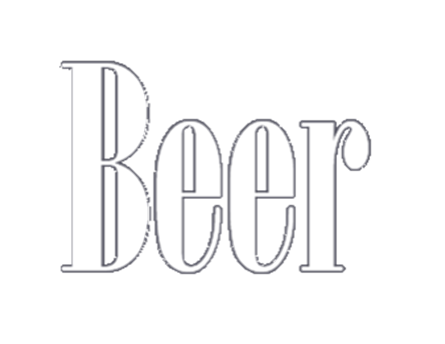
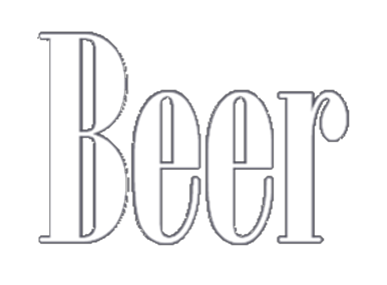
changes

Changed region(s): [[0.093, 0.0842, 0.9302, 0.8702]]

diff --git a/wines.html b/wines.html
@@ -13,8 +13,9 @@
     <meta name="viewport" content="width=device-width, initial-scale=1.0">
     <title>Wines</title>
 </head>
+
 <ion-app>
-    <ion-header position="static" style="background-color: #62626D; height:80px">
+    <ion-header position="static" style="background-color: #62626D; height:70px">
         <ion-row>
             <ion-col size="3.5">
                 <ion-tab-button id="back-home">
@@ -22,10 +23,10 @@
                 </ion-tab-button>
             </ion-col>
             <ion-col size="5.5">
-                <ion-img id="wine-title" src="images/wine text.png" style="width:100px;position:relative;left:20px"></ion-img>
+                <ion-img id="wine-title" src="images/wine text.png" style="width:100px;position:relative;left:30px"></ion-img>
             </ion-col>
             <ion-col>
-                <ion-tab-button id="off-bttn">
+                <ion-tab-button id="off-bttn" >
                     <ion-icon name="power-outline" size="large" color="success"></ion-icon>
                 </ion-tab-button>
             </ion-col>
@@ -72,3 +73,4 @@
     
     </ion-content>
 </ion-app>
+

diff --git a/beers.html b/beers.html
@@ -14,7 +14,7 @@
     <title>Beers</title>
 </head>
 <ion-app>
-    <ion-header position="static" style="background-color: #62626D; height:80px">
+    <ion-header position="static" style="background-color: #62626D; height:70px;padding-top:4px">
         <ion-row>
             <ion-col size="3.5">
                 <ion-tab-button id="back-home">
@@ -22,7 +22,7 @@
                 </ion-tab-button>
             </ion-col>
             <ion-col size="5.5">
-                <ion-img id="beer-title" src="images/beer text.png" style="width:100px;position:relative;left:30px"></ion-img>
+                <ion-img id="beer-title" src="images/beer text.png" style="width:80px;position:relative;left:40px"></ion-img>
             </ion-col>
             <ion-col>
                 <ion-tab-button id="off-bttn">

diff --git a/cocktails.html b/cocktails.html
@@ -14,7 +14,7 @@
     <title>Cocktails</title>
 </head>
 <ion-app>
-    <ion-header position="static" style="background-color: #62626D; height:80px">
+    <ion-header position="static" style="background-color: #62626D; height:70px">
         <ion-row>
             <ion-col size="3.5">
                 <ion-tab-button id="back-home" >

diff --git a/home.html b/home.html
@@ -24,6 +24,8 @@
     <meta name="viewport" content="width=device-width, initial-scale=1.0">
     <title>Home</title>
 </head>
+
+
 <body>
     <ion-app>
         <ion-header position="static" style="background-color: #62626D; height:80px">
